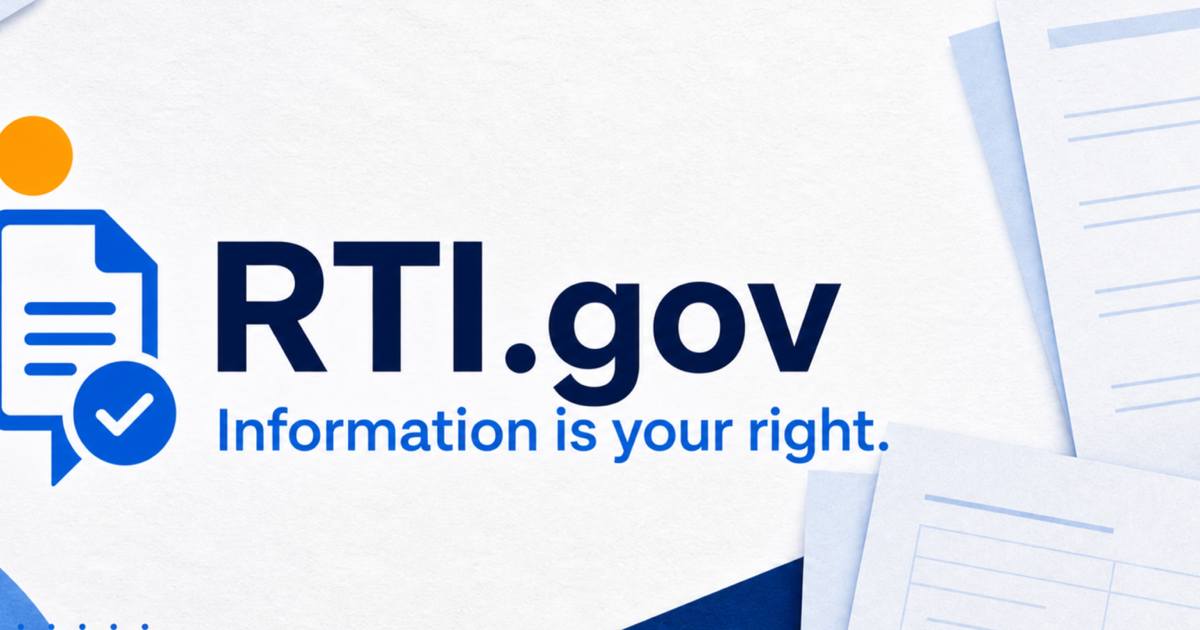
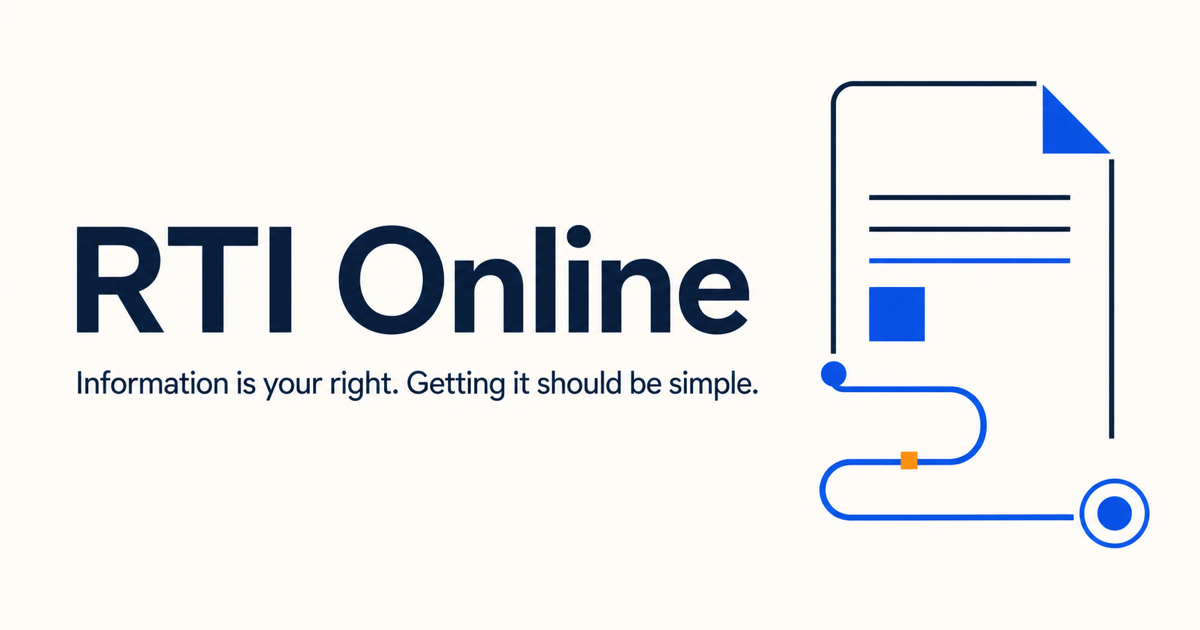
Redesign RTI Online around core citizen journeys

diff --git a/app/redesign.css b/app/redesign.css
@@ -1,0 +1,19 @@
+:root{--new-ink:#15181c;--new-muted:#5f6872;--new-blue:#0757d3;--new-blue-dark:#083b88;--new-wash:#f5f7fa;--new-line:#dce1e7;--new-orange:#f28b24;--new-green:#0a7553;--new-white:#fff;--new-radius:22px;--new-shadow:0 26px 70px rgba(20,35,55,.11)}
+body{background:var(--new-white);color:var(--new-ink);font-family:Inter,ui-sans-serif,-apple-system,BlinkMacSystemFont,"Segoe UI",Arial,sans-serif;letter-spacing:-.01em}
+.new-rti{background:#fff;overflow:hidden}.new-rti main{min-height:70vh}
+.concept-notice{background:#15181c;color:#fff;font-size:11px}.concept-notice>div{width:min(1280px,calc(100% - 48px));min-height:34px;margin:auto;display:flex;align-items:center;gap:12px}.concept-notice b{color:#ffd3a7}.concept-notice span{color:#bfc4ca}.concept-notice a{margin-left:auto;color:#fff;text-underline-offset:3px}
+.new-site-header{height:84px;background:rgba(255,255,255,.93);border-bottom:1px solid var(--new-line);position:relative;z-index:20;backdrop-filter:blur(18px)}.new-header-inner{width:min(1280px,calc(100% - 48px));height:100%;margin:auto;display:flex;align-items:center}.new-brand{display:flex;align-items:center;gap:12px;color:var(--new-ink);text-decoration:none}.new-emblem{width:40px;height:40px;border-radius:13px;display:grid;place-items:center;background:#101419;color:#fff;font:700 17px Georgia,serif}.new-brand>span:last-child{display:grid;gap:2px}.new-brand strong{font-size:17px;letter-spacing:-.03em}.new-brand small{color:var(--new-muted);font-size:9px;letter-spacing:.06em;text-transform:uppercase}.new-desktop-nav{margin-left:auto;display:flex;align-items:center;gap:34px}.new-desktop-nav a{color:#343b43;text-decoration:none;font-size:12px;font-weight:650}.new-desktop-nav a:hover,.new-desktop-nav a:focus-visible{color:var(--new-blue)}.new-login-link{min-height:42px;margin-left:32px;padding:0 17px;display:flex;align-items:center;gap:16px;border-radius:12px;background:#15181c;color:#fff;text-decoration:none;font-size:12px;font-weight:700}.new-mobile-menu{display:none}
+.new-home-hero{min-height:690px;padding:105px max(24px,calc((100vw - 1280px)/2)) 90px;display:grid;grid-template-columns:minmax(0,1.18fr) minmax(360px,.72fr);gap:70px;align-items:center;background:radial-gradient(circle at 80% 12%,rgba(82,152,255,.14),transparent 30%),linear-gradient(180deg,#fff 0%,#f7f9fc 100%)}.new-home-hero-copy{max-width:800px}.new-kicker{display:block;color:var(--new-blue);font-size:10px;font-weight:800;letter-spacing:.14em;text-transform:uppercase}.new-home-hero h1{margin:23px 0 25px;font-size:clamp(56px,6.2vw,94px);line-height:.98;letter-spacing:-.068em;font-weight:660}.new-home-hero h1 em{color:var(--new-blue);font-style:normal;font-weight:inherit}.new-home-hero-copy>p{max-width:720px;margin:0;color:var(--new-muted);font-size:18px;line-height:1.6;letter-spacing:-.015em}.new-request-box{max-width:760px;margin-top:38px;padding:10px 10px 10px 20px;border:1px solid #cfd6de;border-radius:18px;background:#fff;box-shadow:0 16px 40px rgba(30,50,75,.1)}.new-request-box>label{display:block;margin:0 0 5px 2px;color:#777f88;font-size:9px;font-weight:750;letter-spacing:.07em;text-transform:uppercase}.new-request-box>div{display:grid;grid-template-columns:1fr auto;gap:12px;align-items:center}.new-request-box input{min-width:0;height:44px;padding:0 2px;border:0;outline:0;color:var(--new-ink);font-size:15px}.new-request-box input::placeholder{color:#9da4ac}.new-request-box button{height:46px;padding:0 19px;border:0;border-radius:12px;background:var(--new-blue);color:#fff;font-size:12px;font-weight:750;cursor:pointer}.new-request-box button span{margin-left:18px}.new-request-box button:hover{background:#0348b3}.new-hero-links{margin-top:22px;display:flex;gap:25px}.new-hero-links a{color:#38424c;font-size:11px;font-weight:650;text-underline-offset:4px}
+.new-home-card{padding:35px;border:1px solid #dce2e9;border-radius:var(--new-radius);background:rgba(255,255,255,.86);box-shadow:var(--new-shadow)}.new-home-card>span{color:var(--new-blue);font-size:10px;font-weight:800;letter-spacing:.12em;text-transform:uppercase}.new-home-card ol{margin:25px 0;padding:0;list-style:none}.new-home-card li{display:grid;grid-template-columns:38px 1fr;gap:15px;padding:19px 0;border-bottom:1px solid #e2e6eb}.new-home-card li:first-child{padding-top:0}.new-home-card li:last-child{border-bottom:0}.new-home-card i{width:34px;height:34px;border-radius:50%;display:grid;place-items:center;background:#eef3fb;color:var(--new-blue);font-style:normal;font-size:11px;font-weight:800}.new-home-card li div{display:grid;gap:6px}.new-home-card li b{font-size:14px}.new-home-card li small{color:var(--new-muted);font-size:11px;line-height:1.5}.new-home-card>p{margin:4px 0 0;padding:16px 18px;border-radius:13px;background:#edf8f4;color:#315d4e;font-size:11px}.new-home-card>p span{color:var(--new-green);font-weight:900;margin-right:7px}
+.new-jurisdiction{padding:32px max(24px,calc((100vw - 1280px)/2));display:grid;grid-template-columns:50px minmax(0,1fr) auto;gap:24px;align-items:center;background:#0e2035;color:#fff}.new-jurisdiction-icon{width:42px;height:42px;border:1px solid #5e7185;border-radius:50%;display:grid;place-items:center;color:#92b7df;font-family:Georgia,serif;font-size:18px}.new-jurisdiction>div>span{color:#8eb3da;font-size:9px;font-weight:800;letter-spacing:.12em;text-transform:uppercase}.new-jurisdiction h2{margin:6px 0 5px;font-size:18px;letter-spacing:-.025em}.new-jurisdiction p{margin:0;color:#acbac8;font-size:11px;line-height:1.5}.new-jurisdiction>a{min-width:max-content;color:#fff;font-size:11px;font-weight:750;text-decoration:none}.new-jurisdiction>a span{margin-left:16px}
+.new-facts{width:min(1280px,calc(100% - 48px));margin:auto;padding:70px 0;display:grid;grid-template-columns:repeat(3,1fr);border-bottom:1px solid var(--new-line)}.new-facts article{padding:0 42px;display:flex;align-items:center;gap:22px;border-right:1px solid var(--new-line)}.new-facts article:first-child{padding-left:0}.new-facts article:last-child{border:0}.new-facts strong{font-size:45px;letter-spacing:-.065em}.new-facts div{display:grid;gap:5px}.new-facts b{font-size:12px}.new-facts p{margin:0;color:var(--new-muted);font-size:10px;line-height:1.45}
+.new-services{padding:120px max(24px,calc((100vw - 1280px)/2));background:#fff}.new-section-heading{display:grid;grid-template-columns:1fr auto;align-items:end;gap:15px;margin-bottom:46px}.new-section-heading .new-kicker{grid-column:1/3}.new-section-heading h2{margin:0;font-size:clamp(42px,5vw,69px);line-height:1;letter-spacing:-.055em}.new-section-heading p{margin:0 0 7px;color:var(--new-muted);font-size:12px}.new-service-grid{display:grid;grid-template-columns:repeat(3,1fr);gap:14px}.new-service-grid>a{min-height:340px;padding:32px;border:1px solid var(--new-line);border-radius:var(--new-radius);display:grid;grid-template-rows:auto auto 1fr auto;color:var(--new-ink);text-decoration:none;transition:.22s ease}.new-service-grid>a:hover{border-color:#aebdce;background:#f8fafc;transform:translateY(-4px);box-shadow:0 16px 45px rgba(35,50,70,.08)}.new-service-grid>a>span{color:var(--new-blue);font-size:10px;font-weight:800;letter-spacing:.14em}.new-service-grid h3{margin:39px 0 16px;font-size:26px;letter-spacing:-.04em}.new-service-grid p{max-width:300px;margin:0;color:var(--new-muted);font-size:13px;line-height:1.6}.new-service-grid b{align-self:end;color:var(--new-blue);font-size:11px}.new-service-grid b i{float:right;font-style:normal;font-size:17px}
+.new-process{padding:125px max(24px,calc((100vw - 1280px)/2));display:grid;grid-template-columns:1.15fr .85fr;gap:100px;align-items:end;background:#11151a;color:#fff}.new-process .new-kicker{color:#7eaef2}.new-process h2{max-width:740px;margin:20px 0 0;font-size:clamp(44px,5.3vw,72px);line-height:1.02;letter-spacing:-.055em}.new-process-copy p{margin:0;color:#abb2ba;font-size:16px;line-height:1.7}.new-process-copy a{display:inline-block;margin-top:28px;color:#fff;font-size:12px;font-weight:750;text-decoration:none}.new-process-copy a span{margin-left:20px}
+.new-help{padding:110px max(24px,calc((100vw - 1280px)/2));display:grid;grid-template-columns:.85fr 1.15fr;gap:100px;background:#f3f6fa}.new-help>div>span{color:var(--new-blue);font-size:10px;font-weight:800;letter-spacing:.12em;text-transform:uppercase}.new-help h2{max-width:500px;margin:16px 0;font-size:39px;line-height:1.05;letter-spacing:-.045em}.new-help>div p{max-width:430px;color:var(--new-muted);font-size:13px;line-height:1.6}.new-help>div a{display:inline-block;margin-top:16px;color:var(--new-blue);font-size:11px;font-weight:750;text-decoration:none}.new-help nav{border-top:1px solid #cbd3dd}.new-help nav a{min-height:72px;padding:0 4px;display:flex;align-items:center;justify-content:space-between;border-bottom:1px solid #cbd3dd;color:var(--new-ink);text-decoration:none;font-size:14px;font-weight:650}.new-help nav i{color:var(--new-blue);font-style:normal}
+.new-footer{padding:80px max(24px,calc((100vw - 1280px)/2)) 25px;background:#fff}.new-footer-top{padding-bottom:65px;display:grid;grid-template-columns:1fr 1fr;gap:80px}.new-footer-brand{display:flex;align-items:start;gap:15px}.new-footer-brand>div{display:grid;gap:8px}.new-footer-brand strong{font-size:17px}.new-footer-brand p{max-width:320px;margin:0;color:var(--new-muted);font-size:11px;line-height:1.5}.new-footer-links{display:grid;grid-template-columns:1fr 1fr;gap:70px}.new-footer-links>div{display:grid;gap:11px;align-content:start}.new-footer-links b{margin-bottom:8px;color:#9298a0;font-size:9px;letter-spacing:.12em;text-transform:uppercase}.new-footer-links a{color:#343b43;text-decoration:none;font-size:11px}.new-footer-bottom{min-height:62px;padding-top:20px;display:flex;justify-content:space-between;gap:30px;border-top:1px solid var(--new-line);color:#7b838b;font-size:9px}.new-footer-bottom p{margin:0}.new-footer-bottom div{display:flex;gap:25px}.new-footer-bottom a{color:#626a72;text-decoration:none}
+/* Common inner-page reset */
+.new-rti .page-hero{padding:100px max(24px,calc((100vw - 1120px)/2)) 80px;background:linear-gradient(180deg,#fff,#f5f7fa);text-align:left}.new-rti .page-hero .page-eyebrow{color:var(--new-blue)}.new-rti .page-hero h1{max-width:900px;margin:18px 0 24px;color:var(--new-ink);font-family:inherit;font-size:clamp(48px,6vw,78px);font-weight:650;line-height:1;letter-spacing:-.06em}.new-rti .page-hero>p{max-width:720px;margin:0;color:var(--new-muted);font-size:17px;line-height:1.65}.new-rti .button-primary{border-radius:11px;background:var(--new-blue)}.new-rti .button-secondary{border-radius:11px}.new-rti .mock-notice{width:min(1120px,calc(100% - 48px));margin:26px auto;border:0;border-radius:14px;background:#fff4e8;box-shadow:none}.new-rti .tool-surface,.new-rti .workflow-shell,.new-rti .dashboard-surface,.new-rti .login-card{border-radius:20px;box-shadow:var(--new-shadow)}
+.new-rti .fast-request-head{padding:75px max(24px,calc((100vw - 1120px)/2)) 60px;border:0;background:linear-gradient(180deg,#fff,#f5f7fa)}.new-rti .fast-request-head h1{color:var(--new-ink);font-family:inherit;font-weight:650;letter-spacing:-.055em}.new-rti .fast-request-head>p{border-left-color:var(--new-orange);color:var(--new-muted)}.new-rti .fast-request-head>p b{color:#8b4d10}.new-rti .workflow-progress,.new-rti .dashboard-head{background:#12171d}.new-rti .workflow-progress span{background:#12171d}.new-rti .workflow-step h2,.new-rti .receipt-screen h2,.new-rti .otp-panel h2,.new-rti .payment-result h2,.new-rti .login-card h2,.new-rti .dashboard-head h2,.new-rti .article-content h2,.new-rti .guide-steps h2,.new-rti .contact-grid h2,.new-rti .faq-list button,.new-rti .request-list h3{color:var(--new-ink);font-family:inherit;font-weight:650;letter-spacing:-.035em}.new-rti .dashboard-head h2{color:#fff}.new-rti .choice-grid button,.new-rti .form-grid input,.new-rti .form-grid textarea,.new-rti .form-grid select,.new-rti .big-textarea textarea,.new-rti .lookup-form input,.new-rti .login-card input,.new-rti .otp-panel input{border-radius:10px}.new-rti .choice-grid button.selected,.new-rti .payment-methods button.selected{border-color:var(--new-blue);background:#eef4ff}.new-rti .login-page{background:#12171d}.new-rti .login-page aside h1{font-family:inherit;font-weight:650}.new-rti .content-rail{background:#fff}.new-rti .toc{border-top-color:var(--new-blue)}.new-rti .law-facts b{font-family:inherit;font-weight:650}.new-rti .search-tool{background:#12171d}.new-rti .narrow-content,.new-rti .contact-grid article{border-radius:18px}.new-rti .contact-grid{gap:14px;background:transparent}.new-rti .contact-grid article{border:1px solid var(--new-line)}
+@media(max-width:900px){.new-desktop-nav{display:none}.new-login-link{margin-left:auto}.new-home-hero{grid-template-columns:1fr;gap:45px;padding-top:80px}.new-home-card{max-width:620px}.new-facts article{padding:0 22px}.new-service-grid{grid-template-columns:1fr}.new-service-grid>a{min-height:260px}.new-process,.new-help{grid-template-columns:1fr;gap:45px}.new-footer-top{grid-template-columns:1fr}.new-footer-links{max-width:600px}}
+@media(max-width:620px){.concept-notice>div{width:calc(100% - 30px);padding:8px 0;display:grid;grid-template-columns:1fr auto;gap:3px 12px}.concept-notice span{grid-row:2;grid-column:1/3;line-height:1.35}.concept-notice a{grid-column:2;grid-row:1;margin:0}.new-site-header{height:72px}.new-header-inner{width:calc(100% - 30px)}.new-login-link{display:none}.new-mobile-menu{display:block;margin-left:auto;position:relative}.new-mobile-menu summary{list-style:none;padding:10px 0;font-size:12px;font-weight:750;cursor:pointer}.new-mobile-menu summary::-webkit-details-marker{display:none}.new-mobile-menu nav{position:absolute;right:0;top:44px;width:min(330px,calc(100vw - 30px));padding:12px;border:1px solid var(--new-line);border-radius:15px;background:#fff;box-shadow:var(--new-shadow);display:grid}.new-mobile-menu nav a{padding:13px;display:flex;justify-content:space-between;border-bottom:1px solid #edf0f3;color:var(--new-ink);text-decoration:none;font-size:12px}.new-mobile-menu nav a:last-child{border:0}.new-home-hero{min-height:0;padding:65px 20px 55px}.new-home-hero h1{font-size:51px}.new-home-hero-copy>p{font-size:15px}.new-request-box{padding:14px}.new-request-box>div{grid-template-columns:1fr}.new-request-box input{height:42px}.new-request-box button{width:100%}.new-hero-links{align-items:start;flex-direction:column;gap:12px}.new-home-card{padding:25px}.new-jurisdiction{padding:27px 20px;grid-template-columns:38px 1fr}.new-jurisdiction-icon{width:34px;height:34px}.new-jurisdiction>a{grid-column:2}.new-facts{width:calc(100% - 40px);padding:22px 0;grid-template-columns:1fr}.new-facts article,.new-facts article:first-child{padding:25px 0;border-right:0;border-bottom:1px solid var(--new-line)}.new-facts article:last-child{border-bottom:0}.new-services,.new-process,.new-help{padding:80px 20px}.new-section-heading{grid-template-columns:1fr}.new-section-heading .new-kicker{grid-column:1}.new-section-heading h2{font-size:44px}.new-service-grid>a{min-height:280px;padding:27px}.new-process h2{font-size:46px}.new-help h2{font-size:36px}.new-footer{padding:65px 20px 20px}.new-footer-links{grid-template-columns:1fr;gap:45px}.new-footer-bottom{flex-direction:column}.new-rti .page-hero{padding:70px 20px 55px}.new-rti .page-hero h1{font-size:48px}.new-rti .mock-notice{width:calc(100% - 40px)}}
+@media(prefers-reduced-motion:reduce){.new-service-grid>a{transition:none}}

diff --git a/app/page.tsx b/app/page.tsx
@@ -1,69 +1,93 @@
 import Link from 'next/link';
 import { PageShell } from '@/components/site-chrome';
-import { CitizenStart } from '@/components/workflows';
-import { DesignComparison } from '@/components/design-comparison';
 
-const directActions = [
-  { n: '01', title: 'Search first', text: 'Check whether the record is already public.', href: '/search' },
-  { n: '02', title: 'Track a request', text: 'See who owns it and when the reply is due.', href: '/status' },
-  { n: '03', title: 'File an appeal', text: 'Continue an eligible case without starting over.', href: '/appeal' },
+const essentials = [
+  { value: '₹10', label: 'application fee', note: 'No fee for eligible BPL applicants' },
+  { value: '30', label: 'days to reply', note: 'The usual statutory response period' },
+  { value: '24×7', label: 'online access', note: 'File, track and appeal from one place' },
+] as const;
+
+const services = [
+  { number: '01', title: 'File a request', copy: 'Ask a Central Government public authority for an existing record.', href: '/request', action: 'Start request' },
+  { number: '02', title: 'Track a request', copy: 'See the current owner, timeline and next action for your application.', href: '/status', action: 'Check status' },
+  { number: '03', title: 'File a first appeal', copy: 'Challenge a delay, denial, incomplete reply or unreasonable fee.', href: '/appeal', action: 'Start appeal' },
 ] as const;
 
 export default function HomePage() {
   return (
     <PageShell>
-      <section className="instant-hero">
-        <div className="instant-hero-copy">
-          <span className="page-eyebrow">Right to Information · India</span>
-          <h1>Ask for the record.<br/><em>We’ll handle the route.</em></h1>
-          <p>Describe the information in your own words. This prototype finds the likely public authority, shapes the request and shows the legal deadline.</p>
-          <CitizenStart />
+      <section className="new-home-hero">
+        <div className="new-home-hero-copy">
+          <span className="new-kicker">Right to Information · India</span>
+          <h1>Information is your right.<br/><em>Getting it should be simple.</em></h1>
+          <p>Ask the Central Government for the records you need. We’ll guide you to the right authority, help shape the request and keep every deadline visible.</p>
+          <form className="new-request-box" action="/request">
+            <label htmlFor="home-need">What information are you looking for?</label>
+            <div>
+              <input id="home-need" name="need" placeholder="e.g. inspection report for a railway station" />
+              <button type="submit">Start request <span aria-hidden="true">→</span></button>
+            </div>
+          </form>
+          <div className="new-hero-links">
+            <Link href="/authorities">Find a public authority</Link>
+            <Link href="/learn">What can I ask for?</Link>
+          </div>
         </div>
-        <aside className="instant-proof" aria-label="What the service produces">
-          <span className="proof-kicker">One guided application</span>
-          <div className="proof-time"><strong>3</strong><span>clear<br/>decisions</span></div>
+        <aside className="new-home-card" aria-label="How the service works">
+          <span>One clear path</span>
           <ol>
-            <li><i>1</i><div><b>Describe the record</b><small>No department name required</small></div></li>
-            <li><i>2</i><div><b>Confirm the route</b><small>Central, State or local</small></div></li>
-            <li className="proof-result"><i>✓</i><div><b>Leave with proof</b><small>Registration number and due date</small></div></li>
+            <li><i>1</i><div><b>Describe the record</b><small>Use ordinary language. No legal wording needed.</small></div></li>
+            <li><i>2</i><div><b>Confirm the authority</b><small>Know exactly who will receive your request.</small></div></li>
+            <li><i>3</i><div><b>Save your proof</b><small>Get a registration number and response date.</small></div></li>
           </ol>
-          <div className="proof-law"><span>₹10</span><p>Usual Central application fee. Eligible BPL applicants are exempt.</p></div>
+          <p><span aria-hidden="true">✓</span> Your reason for asking is never required.</p>
         </aside>
       </section>
 
-      <section className="rti-jurisdiction" aria-labelledby="jurisdiction-title">
-        <div className="rti-jurisdiction-mark" aria-hidden="true">!</div>
-        <div><span>Before you file</span><h2 id="jurisdiction-title">The filing route depends on who holds the record.</h2><p>Central, State and local authorities use different systems. This prototype identifies that before payment.</p></div>
-        <Link href="/authorities">Check an authority <span aria-hidden="true">→</span></Link>
-      </section>
-
-      <section className="home-comparison" aria-labelledby="home-compare-title">
-        <div className="home-comparison-head"><div><span className="page-eyebrow">Current portal → proposed service</span><h2 id="home-compare-title">Don’t promise the upgrade.<br/>Let them feel it.</h2></div><p>Drag across the interface. The new design keeps the official service map, then reorganises it around the citizen’s actual journey.</p></div>
-        <DesignComparison />
-        <Link className="home-comparison-link" href="/compare">See the complete redesign case and functional parity <span aria-hidden="true">→</span></Link>
-      </section>
-
-      <section className="invisible-service" aria-labelledby="service-title">
-        <div className="invisible-intro">
-          <span className="page-eyebrow">Everything else should disappear</span>
-          <h2 id="service-title">A public service should feel obvious.</h2>
-          <p>No legal scavenger hunt. No fake certainty. Every screen answers one question and gives one clear next action.</p>
+      <section className="new-jurisdiction" aria-labelledby="jurisdiction-heading">
+        <span className="new-jurisdiction-icon" aria-hidden="true">i</span>
+        <div>
+          <span>Check before you pay</span>
+          <h2 id="jurisdiction-heading">This service is for Central Government authorities only.</h2>
+          <p>State Governments—including the Government of NCT Delhi—use separate RTI services. A request sent to the wrong portal may be returned without a refund.</p>
         </div>
-        <div className="invisible-grid">
-          {directActions.map((item) => <article key={item.href}><span>{item.n}</span><b>{item.title}</b><p>{item.text}</p><Link className="rti-text-link" href={item.href}>Open <span aria-hidden="true">→</span></Link></article>)}
+        <Link href="/authorities">Check the authority <span aria-hidden="true">→</span></Link>
+      </section>
+
+      <section className="new-facts" aria-label="RTI essentials">
+        {essentials.map((item) => <article key={item.label}><strong>{item.value}</strong><div><b>{item.label}</b><p>{item.note}</p></div></article>)}
+      </section>
+
+      <section className="new-services" aria-labelledby="services-heading">
+        <div className="new-section-heading">
+          <span className="new-kicker">The essentials</span>
+          <h2 id="services-heading">One service. Three things to do.</h2>
+          <p>Everything else is guidance.</p>
+        </div>
+        <div className="new-service-grid">
+          {services.map((item) => <Link key={item.href} href={item.href}><span>{item.number}</span><h3>{item.title}</h3><p>{item.copy}</p><b>{item.action} <i aria-hidden="true">→</i></b></Link>)}
         </div>
       </section>
 
-      <section className="quiet-actions" aria-label="RTI guidance">
-        <div><span className="page-eyebrow">Not sure RTI is right?</span><h2>Start with the outcome you need.</h2><p>RTI retrieves existing records. It does not force an office to fix a service complaint.</p><Link href="/learn">Understand RTI in plain language →</Link></div>
-        <div><span className="page-eyebrow">Already know the department?</span><h2>Go straight to the record holder.</h2><p>Search a focused demonstration directory of Central, State and local authorities.</p><Link href="/authorities">Find the authority →</Link></div>
+      <section className="new-process" aria-labelledby="process-heading">
+        <div>
+          <span className="new-kicker">Designed around the citizen</span>
+          <h2 id="process-heading">Your case should never disappear into a portal.</h2>
+        </div>
+        <div className="new-process-copy">
+          <p>From filing to final reply, the service keeps one continuous record: who owns the request, what happened, when the reply is due and whether you can appeal.</p>
+          <Link href="/process">See how an RTI request moves <span aria-hidden="true">→</span></Link>
+        </div>
       </section>
 
-      <section className="one-right">
-        <span>The essential promise</span>
-        <blockquote>One request. One owner. One visible deadline.</blockquote>
-        <p>This is an independent prototype. It creates synthetic receipts on this device and never sends data to a government system.</p>
-        <Link href="/request">Start a mock request →</Link>
+      <section className="new-help" aria-label="Help and supporting services">
+        <div><span>Already filed?</span><h2>Pick up exactly where you left off.</h2><p>Sign in to see requests, replies, payments and appeals together.</p><Link href="/login">Open my RTI account →</Link></div>
+        <nav aria-label="Supporting services">
+          <Link href="/search"><span>Search public records first</span><i>→</i></Link>
+          <Link href="/payments"><span>Resolve a payment issue</span><i>→</i></Link>
+          <Link href="/faq"><span>Read common questions</span><i>→</i></Link>
+          <Link href="/contact"><span>Get help</span><i>→</i></Link>
+        </nav>
       </section>
     </PageShell>
   );

diff --git a/components/site-chrome.tsx b/components/site-chrome.tsx
@@ -1,44 +1,54 @@
 import Link from 'next/link';
 import type { ReactNode } from 'react';
 
-const services = [
-  ['File request', '/request'], ['First appeal', '/appeal'], ['Track request', '/status'],
-  ['Request history', '/history'], ['Payment help', '/payments'],
+const primaryServices = [
+  ['File request', '/request'],
+  ['Track request', '/status'],
+  ['First appeal', '/appeal'],
 ] as const;
 
-const information = [
-  ['Current vs proposed', '/compare'],
-  ['Learn about RTI', '/learn'], ['Find an authority', '/authorities'], ['Search disclosures', '/search'],
-  ['User guide', '/guide'], ['FAQ', '/faq'], ['Contact', '/contact'],
+const supportLinks = [
+  ['Learn about RTI', '/learn'],
+  ['Find an authority', '/authorities'],
+  ['User guide', '/guide'],
+  ['FAQ', '/faq'],
+  ['Contact', '/contact'],
 ] as const;
 
 export function SiteHeader() {
   return <>
     <a className="skip-link" href="#main">Skip to main content</a>
-    <div className="rti-prototype"><div><span>Independent redesign concept</span><p>Not an official Government of India filing service. Do not enter real personal or payment information.</p><Link href="/policies">About this prototype</Link></div></div>
-    <div className="rti-utility"><div>
-      <span className="rti-gov-id"><i aria-hidden="true"><b/><b/><b/></i><span><strong>भारत · India</strong><small>Independent public-service concept</small></span></span>
-      <nav aria-label="Utility navigation"><Link href="/guide">Help</Link><Link href="/policies">Accessibility</Link><span className="rti-language">English</span></nav>
-    </div></div>
-    <header className="rti-header">
-      <div className="rti-masthead">
-        <Link className="rti-brand" href="/" aria-label="RTI Online home"><span className="rti-chakra" aria-hidden="true">✺</span><span><strong>RTI Online</strong><small>सूचना का अधिकार · Right to Information</small></span></Link>
-        <div className="rti-owner"><span>Right to Information service concept</span><b>Central, State and local routing in one guided journey</b><Link href="/authorities">Public authorities available →</Link></div>
+    <div className="concept-notice"><div><b>Independent redesign concept</b><span>Not an official Government of India service. Do not enter real personal or payment information.</span><Link href="/policies">Learn more</Link></div></div>
+    <header className="new-site-header">
+      <div className="new-header-inner">
+        <Link className="new-brand" href="/" aria-label="RTI Online home">
+          <span className="new-emblem" aria-hidden="true">अ</span>
+          <span><strong>RTI Online</strong><small>Right to Information</small></span>
+        </Link>
+        <nav className="new-desktop-nav" aria-label="Primary navigation">
+          {primaryServices.map(([label, href]) => <Link key={href} href={href}>{label}</Link>)}
+          <Link href="/guide">Help</Link>
+        </nav>
+        <Link className="new-login-link" href="/login">My RTI <span aria-hidden="true">→</span></Link>
+        <details className="new-mobile-menu">
+          <summary aria-label="Open navigation">Menu</summary>
+          <nav aria-label="Mobile navigation">{[...primaryServices, ...supportLinks].map(([label, href]) => <Link key={href} href={href}>{label}<span>→</span></Link>)}<Link href="/login">My RTI <span>→</span></Link></nav>
+        </details>
       </div>
-      <nav className="rti-nav" aria-label="Primary navigation"><Link href="/">Home</Link>{services.map(([label, href]) => <Link key={href} href={href}>{label}</Link>)}<Link className="rti-login" href="/login">Citizen login <span aria-hidden="true">→</span></Link></nav>
-      <details className="rti-mobile-menu"><summary>Menu <span aria-hidden="true">☰</span></summary><nav aria-label="Mobile navigation">{[...services, ...information].map(([label, href]) => <Link key={href} href={href}>{label}<span>→</span></Link>)}<Link href="/login">Citizen login <span>→</span></Link></nav></details>
     </header>
   </>;
 }
 
 export function SiteFooter() {
-  return <footer className="rti-footer">
-    <div className="rti-footer-brand"><span className="rti-chakra" aria-hidden="true">✺</span><div><strong>RTI Online</strong><p>A citizen-first independent concept inspired by India’s Central RTI service.</p></div></div>
-    <div className="rti-footer-links"><div><b>Use the service</b>{services.map(([label, href]) => <Link key={href} href={href}>{label}</Link>)}</div><div><b>Information</b>{information.map(([label, href]) => <Link key={href} href={href}>{label}</Link>)}</div><div><b>After the response</b><Link href="/appeal">First appeal</Link><Link href="/commissions">Information Commissions</Link><Link href="/process">How the process works</Link><Link href="/policies">Policies &amp; accessibility</Link></div></div>
-    <div className="rti-footer-bottom"><p>Independent prototype · No connection to a government filing system · All example data is synthetic.</p><span>Designed toward WCAG 2.1 AA · Formal audit pending</span></div>
+  return <footer className="new-footer">
+    <div className="new-footer-top">
+      <div className="new-footer-brand"><span className="new-emblem" aria-hidden="true">अ</span><div><strong>RTI Online</strong><p>A clearer way to exercise your right to information.</p></div></div>
+      <div className="new-footer-links"><div><b>Use the service</b>{primaryServices.map(([label, href]) => <Link key={href} href={href}>{label}</Link>)}<Link href="/history">Request history</Link><Link href="/payments">Payment help</Link></div><div><b>Understand RTI</b>{supportLinks.slice(0, 4).map(([label, href]) => <Link key={href} href={href}>{label}</Link>)}<Link href="/process">How it works</Link></div></div>
+    </div>
+    <div className="new-footer-bottom"><p>Independent prototype. No connection to a government filing or payment system.</p><div><Link href="/policies">Privacy &amp; accessibility</Link><Link href="/commissions">Information commissions</Link></div></div>
   </footer>;
 }
 
-export function PageShell({ children }: { children: ReactNode }) { return <div className="government-page rti-v2"><SiteHeader/><main id="main">{children}</main><SiteFooter/></div>; }
+export function PageShell({ children }: { children: ReactNode }) { return <div className="government-page new-rti"><SiteHeader/><main id="main">{children}</main><SiteFooter/></div>; }
 export function PageHero({ eyebrow, title, intro, actions }: { eyebrow: string; title: string; intro: string; actions?: ReactNode }) { return <section className="page-hero"><span className="page-eyebrow">{eyebrow}</span><h1>{title}</h1><p>{intro}</p>{actions && <div className="page-actions">{actions}</div>}</section>; }
 export function MockNotice({ children }: { children?: ReactNode }) { return <div className="mock-notice"><span>Demo</span><p>{children || 'This interaction is fully functional with synthetic data. Nothing is sent to a government system.'}</p></div>; }

diff --git a/app/layout.tsx b/app/layout.tsx
@@ -3,14 +3,15 @@ import './globals.css';
 import './official-portal.css';
 import './citizen-portal.css';
 import './portal-v2.css';
+import './redesign.css';
 
 export const metadata: Metadata = {
-  metadataBase: new URL('https://rti-gov.vercel.app'),
+  metadataBase: new URL('https://rti-gov-india.abhipatel33360.chatgpt.site'),
   title: {
-    default: 'RTI Online — Right to Information citizen services',
+    default: 'RTI Online — Information is your right',
     template: '%s',
   },
-  description: 'A citizen-first concept for India’s unified Right to Information service: learn, search, file, track and appeal.',
+  description: 'A clear, citizen-first redesign of India’s RTI Online service for filing, tracking and appealing Central Government information requests.',
   applicationName: 'RTI Online prototype',
   authors: [{ name: 'RTI.gov independent concept team' }],
   creator: 'RTI.gov independent concept team',
@@ -18,8 +19,8 @@ export const metadata: Metadata = {
   robots: { index: true, follow: true, googleBot: { index: true, follow: true, 'max-image-preview': 'large', 'max-snippet': -1 } },
   openGraph: {
     title: 'RTI Online — Information is your right',
-    description: 'Learn, search, create, track and appeal through one citizen-first RTI service.',
-    images: [{ url: '/og.png', width: 1200, height: 630, alt: 'RTI.gov — Information is your right' }],
+    description: 'File, track and appeal a Central Government information request through one clear service.',
+    images: [{ url: '/og.png', width: 1200, height: 630, alt: 'RTI Online — Information is your right. Getting it should be simple.' }],
     type: 'website',
     locale: 'en_IN',
     siteName: 'RTI Online prototype',
@@ -27,7 +28,7 @@ export const metadata: Metadata = {
   twitter: {
     card: 'summary_large_image',
     title: 'RTI Online — Information is your right',
-    description: 'Learn, search, create, track and appeal through one citizen-first RTI service.',
+    description: 'File, track and appeal a Central Government information request through one clear service.',
     images: ['/og.png'],
   },
   category: 'government services',

diff --git a/app/sitemap.ts b/app/sitemap.ts
@@ -1,10 +1,10 @@
 import type { MetadataRoute } from 'next';
 
-const routes = ['', '/compare', '/learn', '/search', '/authorities', '/commissions', '/request', '/status', '/appeal', '/history', '/payments', '/faq', '/contact', '/guide', '/process', '/policies'];
+const routes = ['', '/learn', '/search', '/authorities', '/commissions', '/request', '/status', '/appeal', '/history', '/payments', '/faq', '/contact', '/guide', '/process', '/policies'];
 
 export default function sitemap(): MetadataRoute.Sitemap {
   return routes.map((route, index) => ({
-    url: `https://rti-gov.vercel.app${route}`,
+    url: `https://rti-gov-india.abhipatel33360.chatgpt.site${route}`,
     lastModified: new Date('2026-08-28'),
     changeFrequency: index === 0 ? 'weekly' : 'monthly',
     priority: index === 0 ? 1 : ['/request', '/status', '/appeal'].includes(route) ? 0.9 : 0.7,

diff --git a/app/robots.ts b/app/robots.ts
@@ -3,6 +3,6 @@ import type { MetadataRoute } from 'next';
 export default function robots(): MetadataRoute.Robots {
   return {
     rules: { userAgent: '*', allow: '/', disallow: ['/login'] },
-    sitemap: 'https://rti-gov.vercel.app/sitemap.xml',
+    sitemap: 'https://rti-gov-india.abhipatel33360.chatgpt.site/sitemap.xml',
   };
 }
